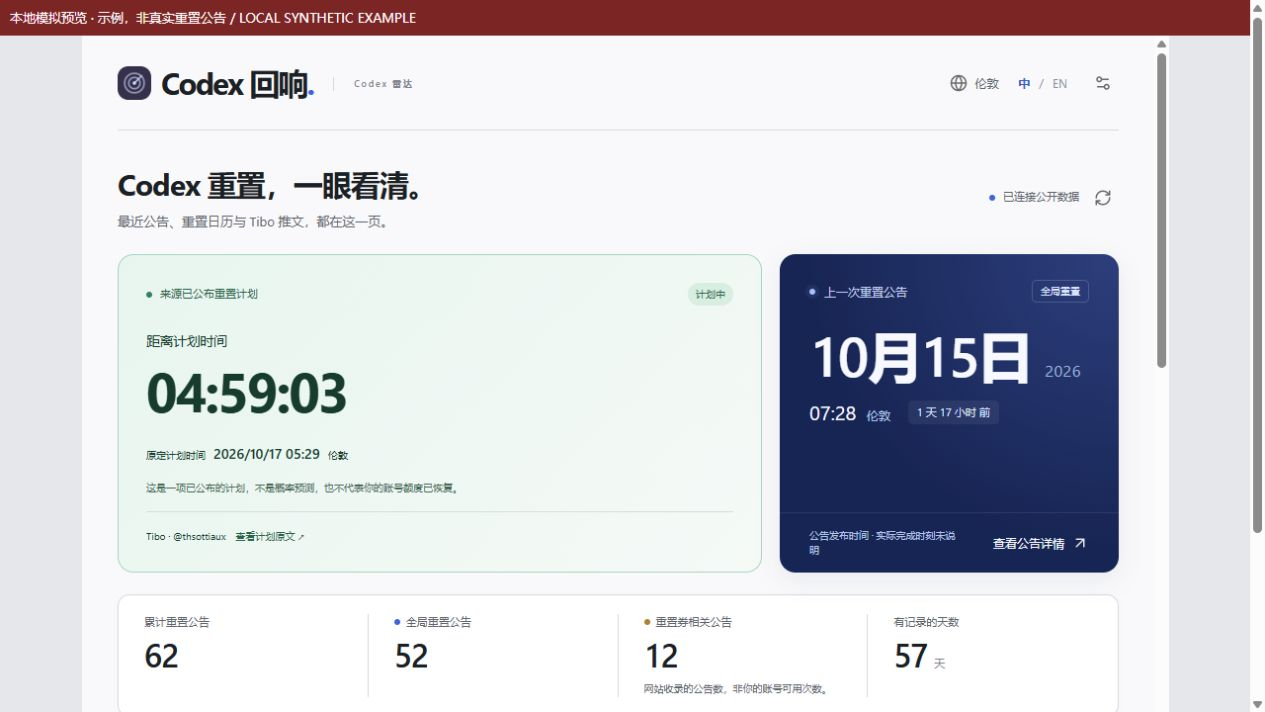
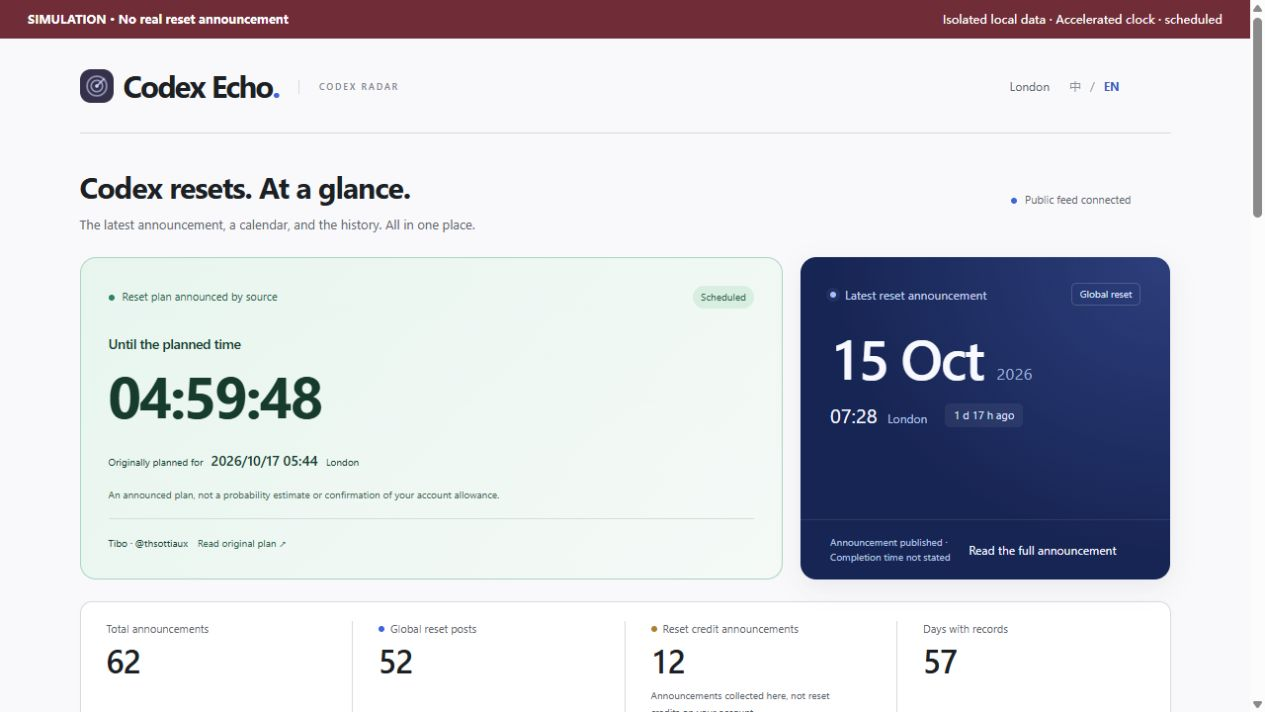
Use English screenshots and document the isolated reset lifecycle

diff --git a/README.md b/README.md
@@ -8,23 +8,33 @@
 
 ## 网页预览
 
-以下为公开网页的实际截图；日期、数量和预测值只是截图时的快照，以网页当前显示为准。
+截图统一使用英文界面。以下为公开网页的实际截图；日期、数量和预测值只是截图时的快照，以网页当前显示为准。
 
-![Codex 回响桌面网页：最近公告、预测和历史统计](docs/images/desktop-zh.png)
+![Codex 回响桌面网页：最近公告、预测和历史统计](docs/images/desktop-en.png)
 
 <details>
 <summary>查看手机端</summary>
 
-<img src="docs/images/mobile-zh.png" alt="Codex 回响手机端实际截图" width="390" />
+<img src="docs/images/mobile-en.png" alt="Codex 回响手机端实际截图" width="390" />
 
 </details>
 
 <details>
-<summary>查看重置计划状态示例（模拟数据）</summary>
+<summary>查看计划公布 → 等待确认 → 确认完成（英文模拟截图）</summary>
 
 **这是本地模拟效果，不是真实重置预告，也不表示目前确定五小时后重置。** 来源明确公布计划后，首页会显示倒计时，并保留最近一次公告。
 
-![已公布重置计划的模拟效果，非真实公告](docs/images/reset-plan-example.png)
+**1. 公布计划：**显示倒计时，计划不计入历史公告统计。
+
+![英文模拟：计划已公布](docs/images/reset-plan-example.png)
+
+**2. 到点等待确认：**没有完成公告时，不自动宣告完成，也不发送完成提醒。
+
+![英文模拟：到点后等待完成确认](docs/images/reset-awaiting-example.png)
+
+**3. 来源确认完成：**收到明确完成消息后更新状态，并单独提醒一次。图中的新增公告只存在于本地模拟，不属于线上真实数据。
+
+![英文模拟：来源明确确认完成](docs/images/reset-completed-example.png)
 
 </details>
 

diff --git a/README.en.md b/README.en.md
@@ -20,11 +20,21 @@ These are screenshots of the public website. Dates, counts and forecasts are sna
 </details>
 
 <details>
-<summary>View an announced-plan example (synthetic data)</summary>
+<summary>View the lifecycle: announced → awaiting → completed (synthetic data)</summary>
 
-**This is a local simulation, not a real announcement or a claim that a reset is currently five hours away.** A precise source announcement activates the countdown alongside the latest historical post. This example shows the Chinese interface.
+**This is a local simulation, not a real announcement or a claim that a reset is currently five hours away.** A precise source announcement activates the countdown alongside the latest historical post. All screenshots use the English interface; the clock is accelerated and production data is unchanged.
 
-![Synthetic announced reset plan example, not a real announcement](docs/images/reset-plan-example.png)
+**1. Plan announced:** the countdown appears; the plan is excluded from historical announcement counts.
+
+![Synthetic example: plan announced](docs/images/reset-plan-example.png)
+
+**2. Awaiting confirmation:** reaching the target does not confirm completion or send a completion alert.
+
+![Synthetic example: target reached, awaiting confirmation](docs/images/reset-awaiting-example.png)
+
+**3. Source reported completion:** a new explicit completion updates the card and triggers a separate alert. The extra historical entry exists only in this local simulation.
+
+![Synthetic example: source explicitly confirmed completion](docs/images/reset-completed-example.png)
 
 </details>
 
